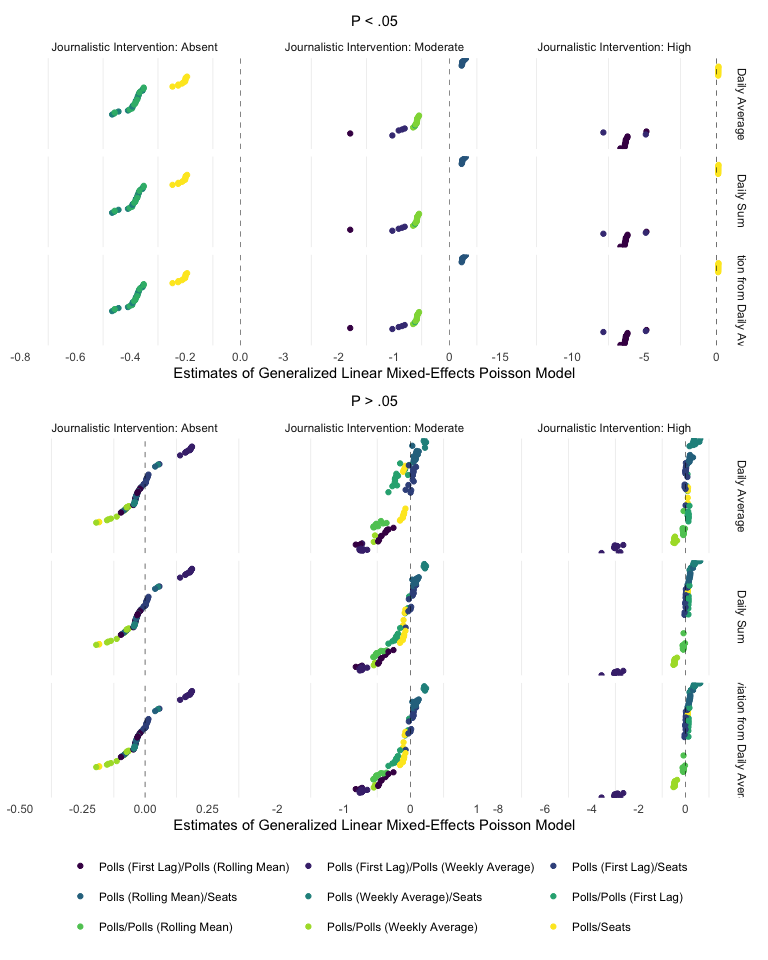
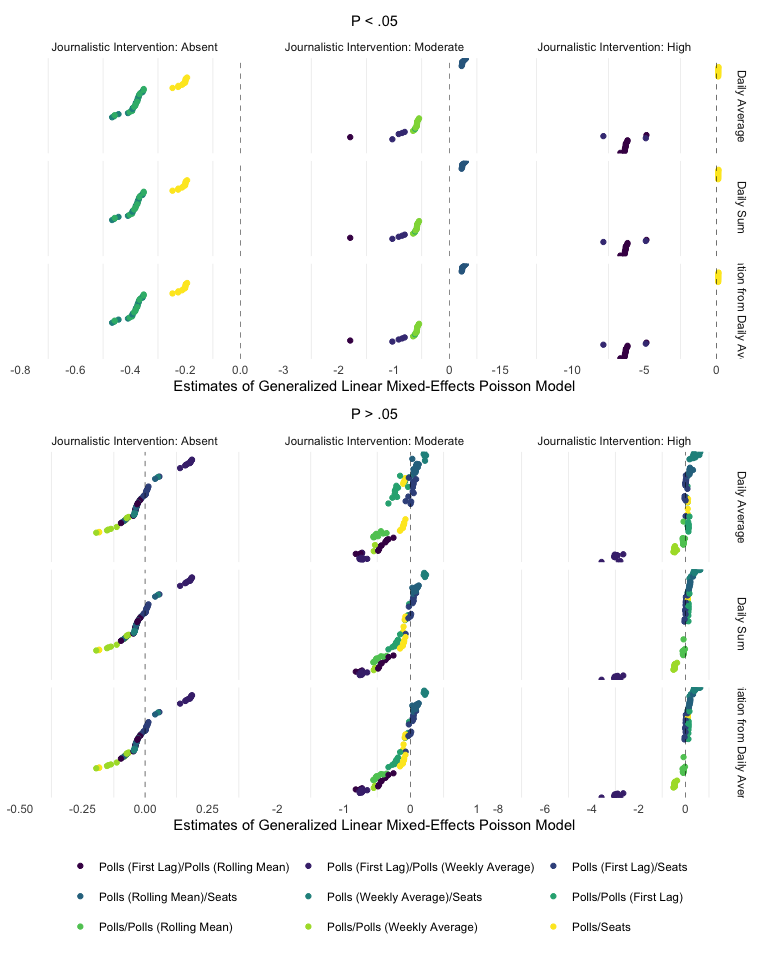
last updates

diff --git a/src/analysis/analysis.md b/src/analysis/analysis.md
@@ -73,9 +73,9 @@ h1 %>%
              ymax = conf.high)) +
   geom_point() + #geom_errorbar() +
   theme_minimal() +
-  labs(x = "", y = "Estimates of Generalized Linear Mixed-Effects Poisson Model") +
-  #title = "Effect of Journalistic Intervention on # Negative Appeals",
-  #subtitle = "Controlled for Standing in Polls, Ideological Extremity and Issue Ownership" ) +
+  labs(x = "", 
+       y = "Estimates of Generalized Linear Mixed-Effects Poisson Model",
+       subtitle = "P < .05") +
   theme(plot.title = element_text(hjust = 0.5),
         plot.subtitle = element_text(hjust = 0.5),
         axis.title.y=element_blank(),
@@ -147,7 +147,7 @@ p2_2 <- h2 %>%
   geom_vline(xintercept = 0, size = .2, linetype = "dashed") +
   guides(color=guide_legend(nrow=3,byrow=TRUE))
 
-p2_1 / p2_2 + plot_layout(height = c(1, 1.25))
+p2_1 / p2_2 + plot_layout(height = c(1, 1.15))
 ```
 
 <img src="../../report/figures/h2-1.png" style="display: block; margin: auto;" />
